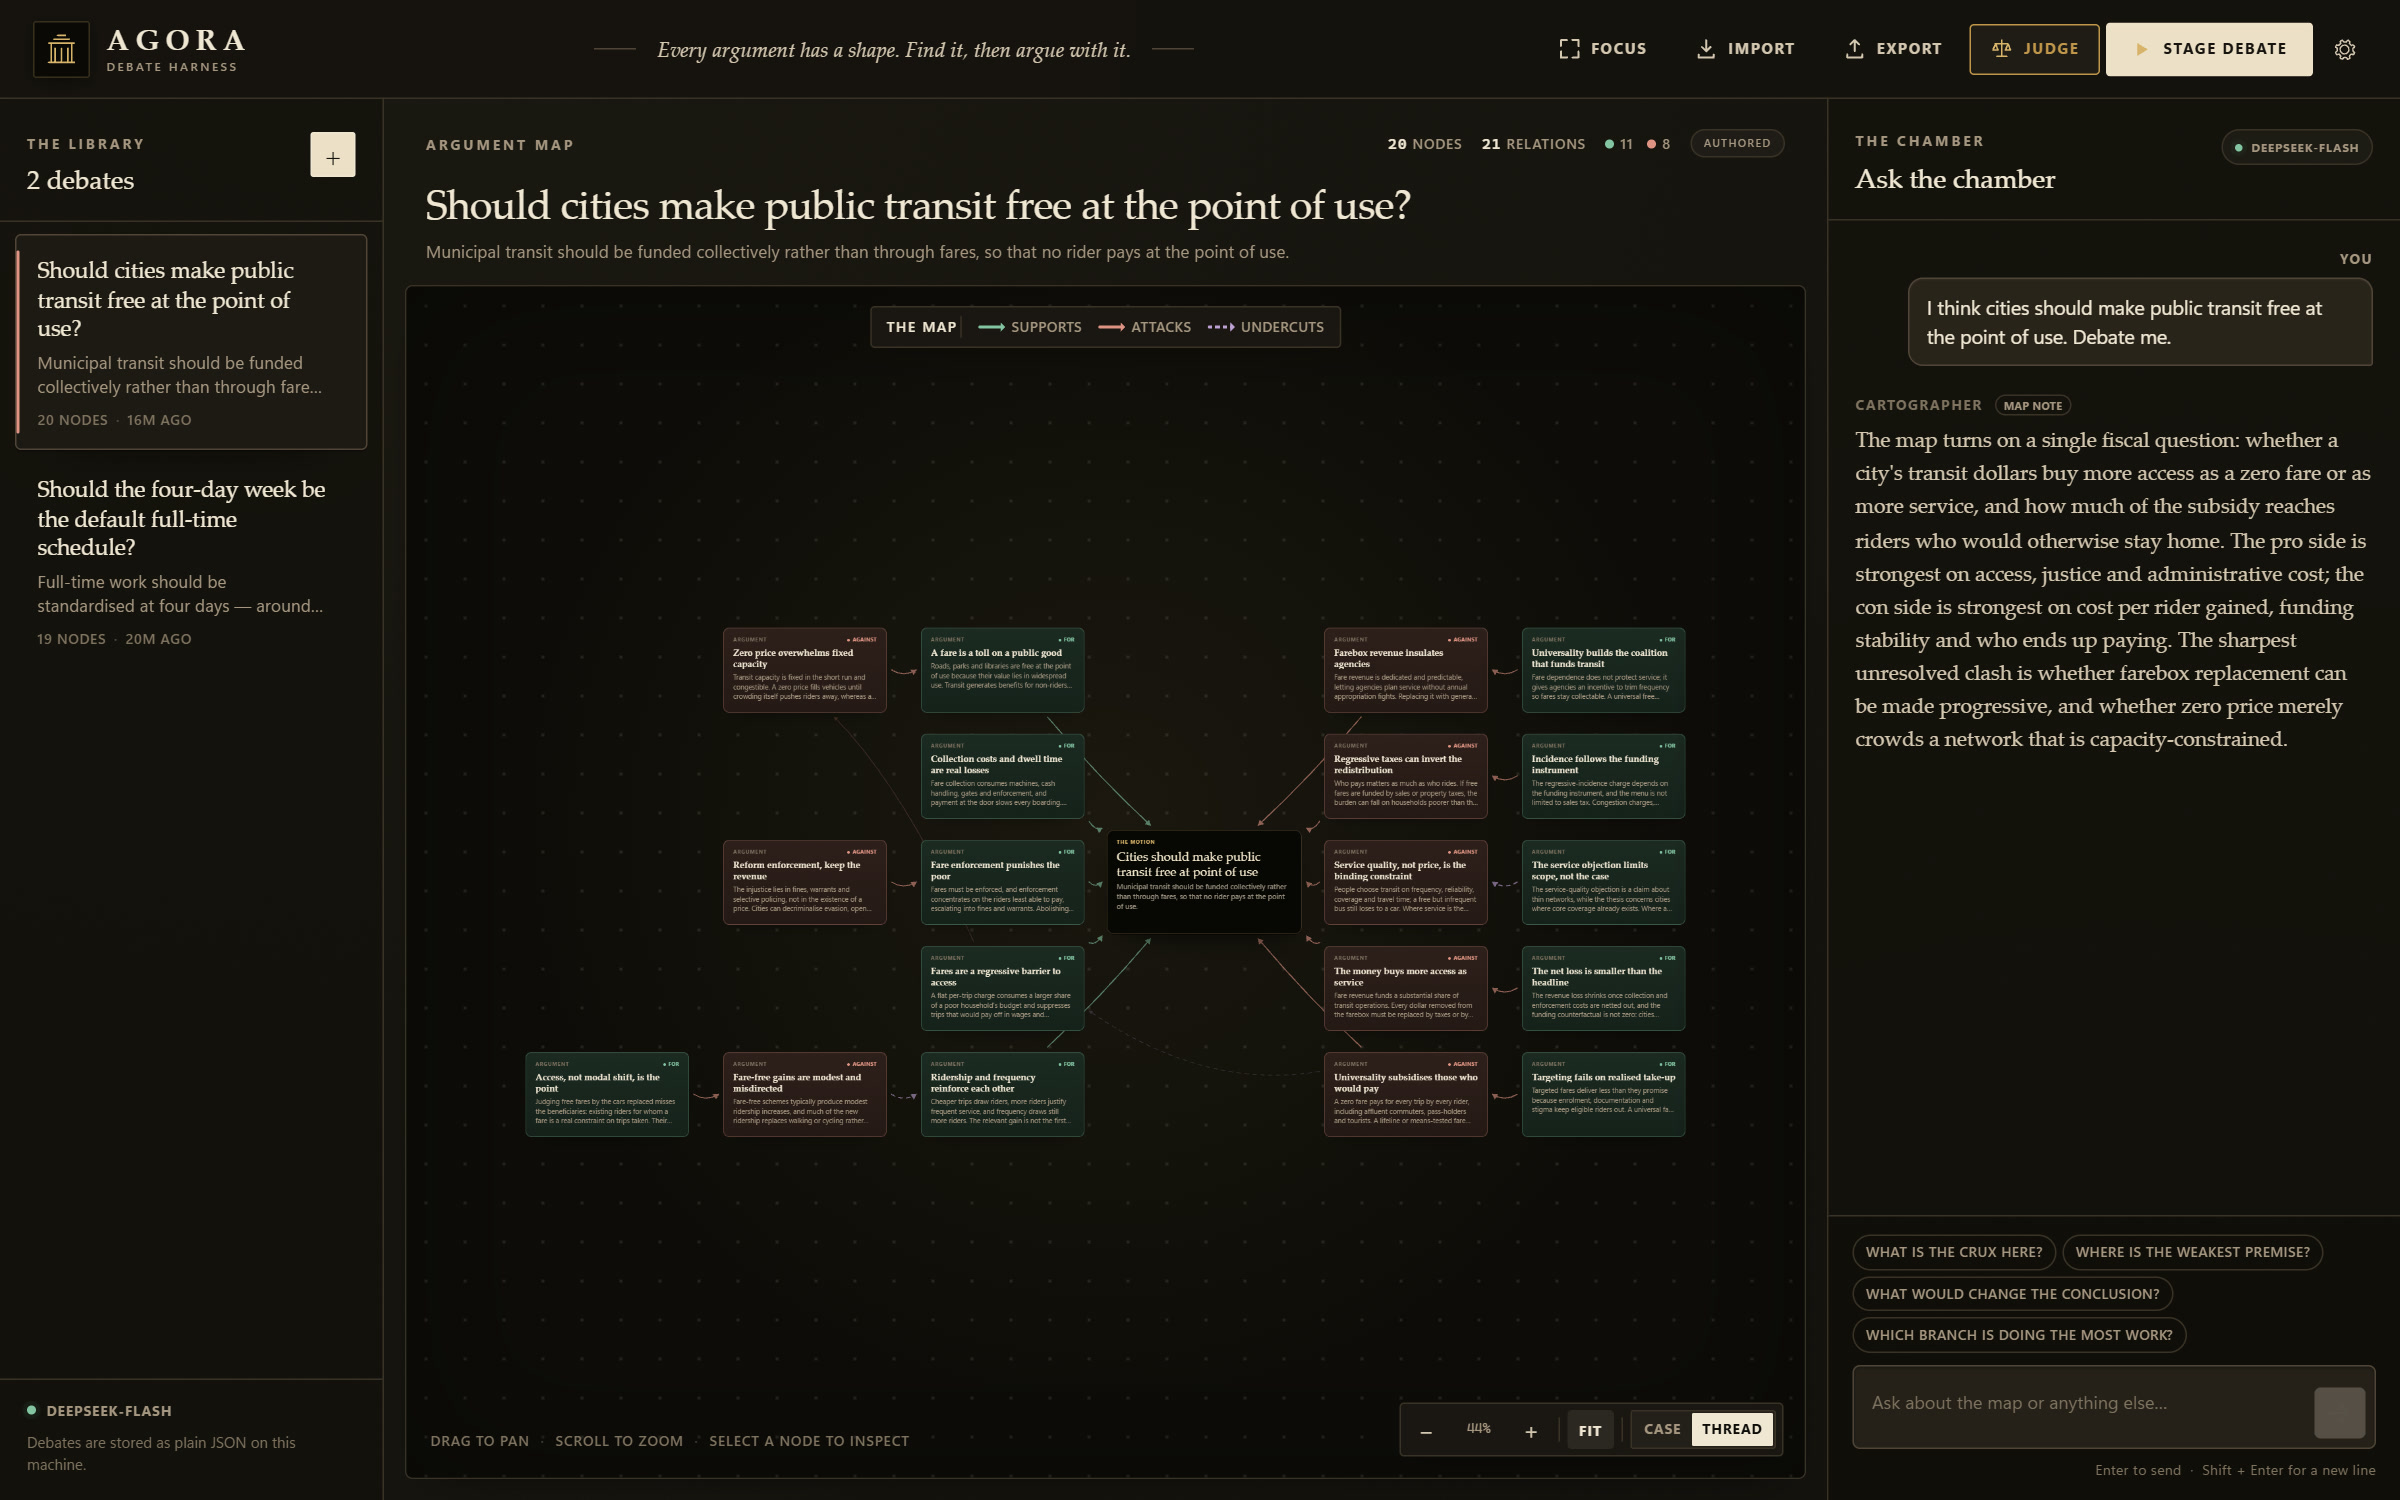
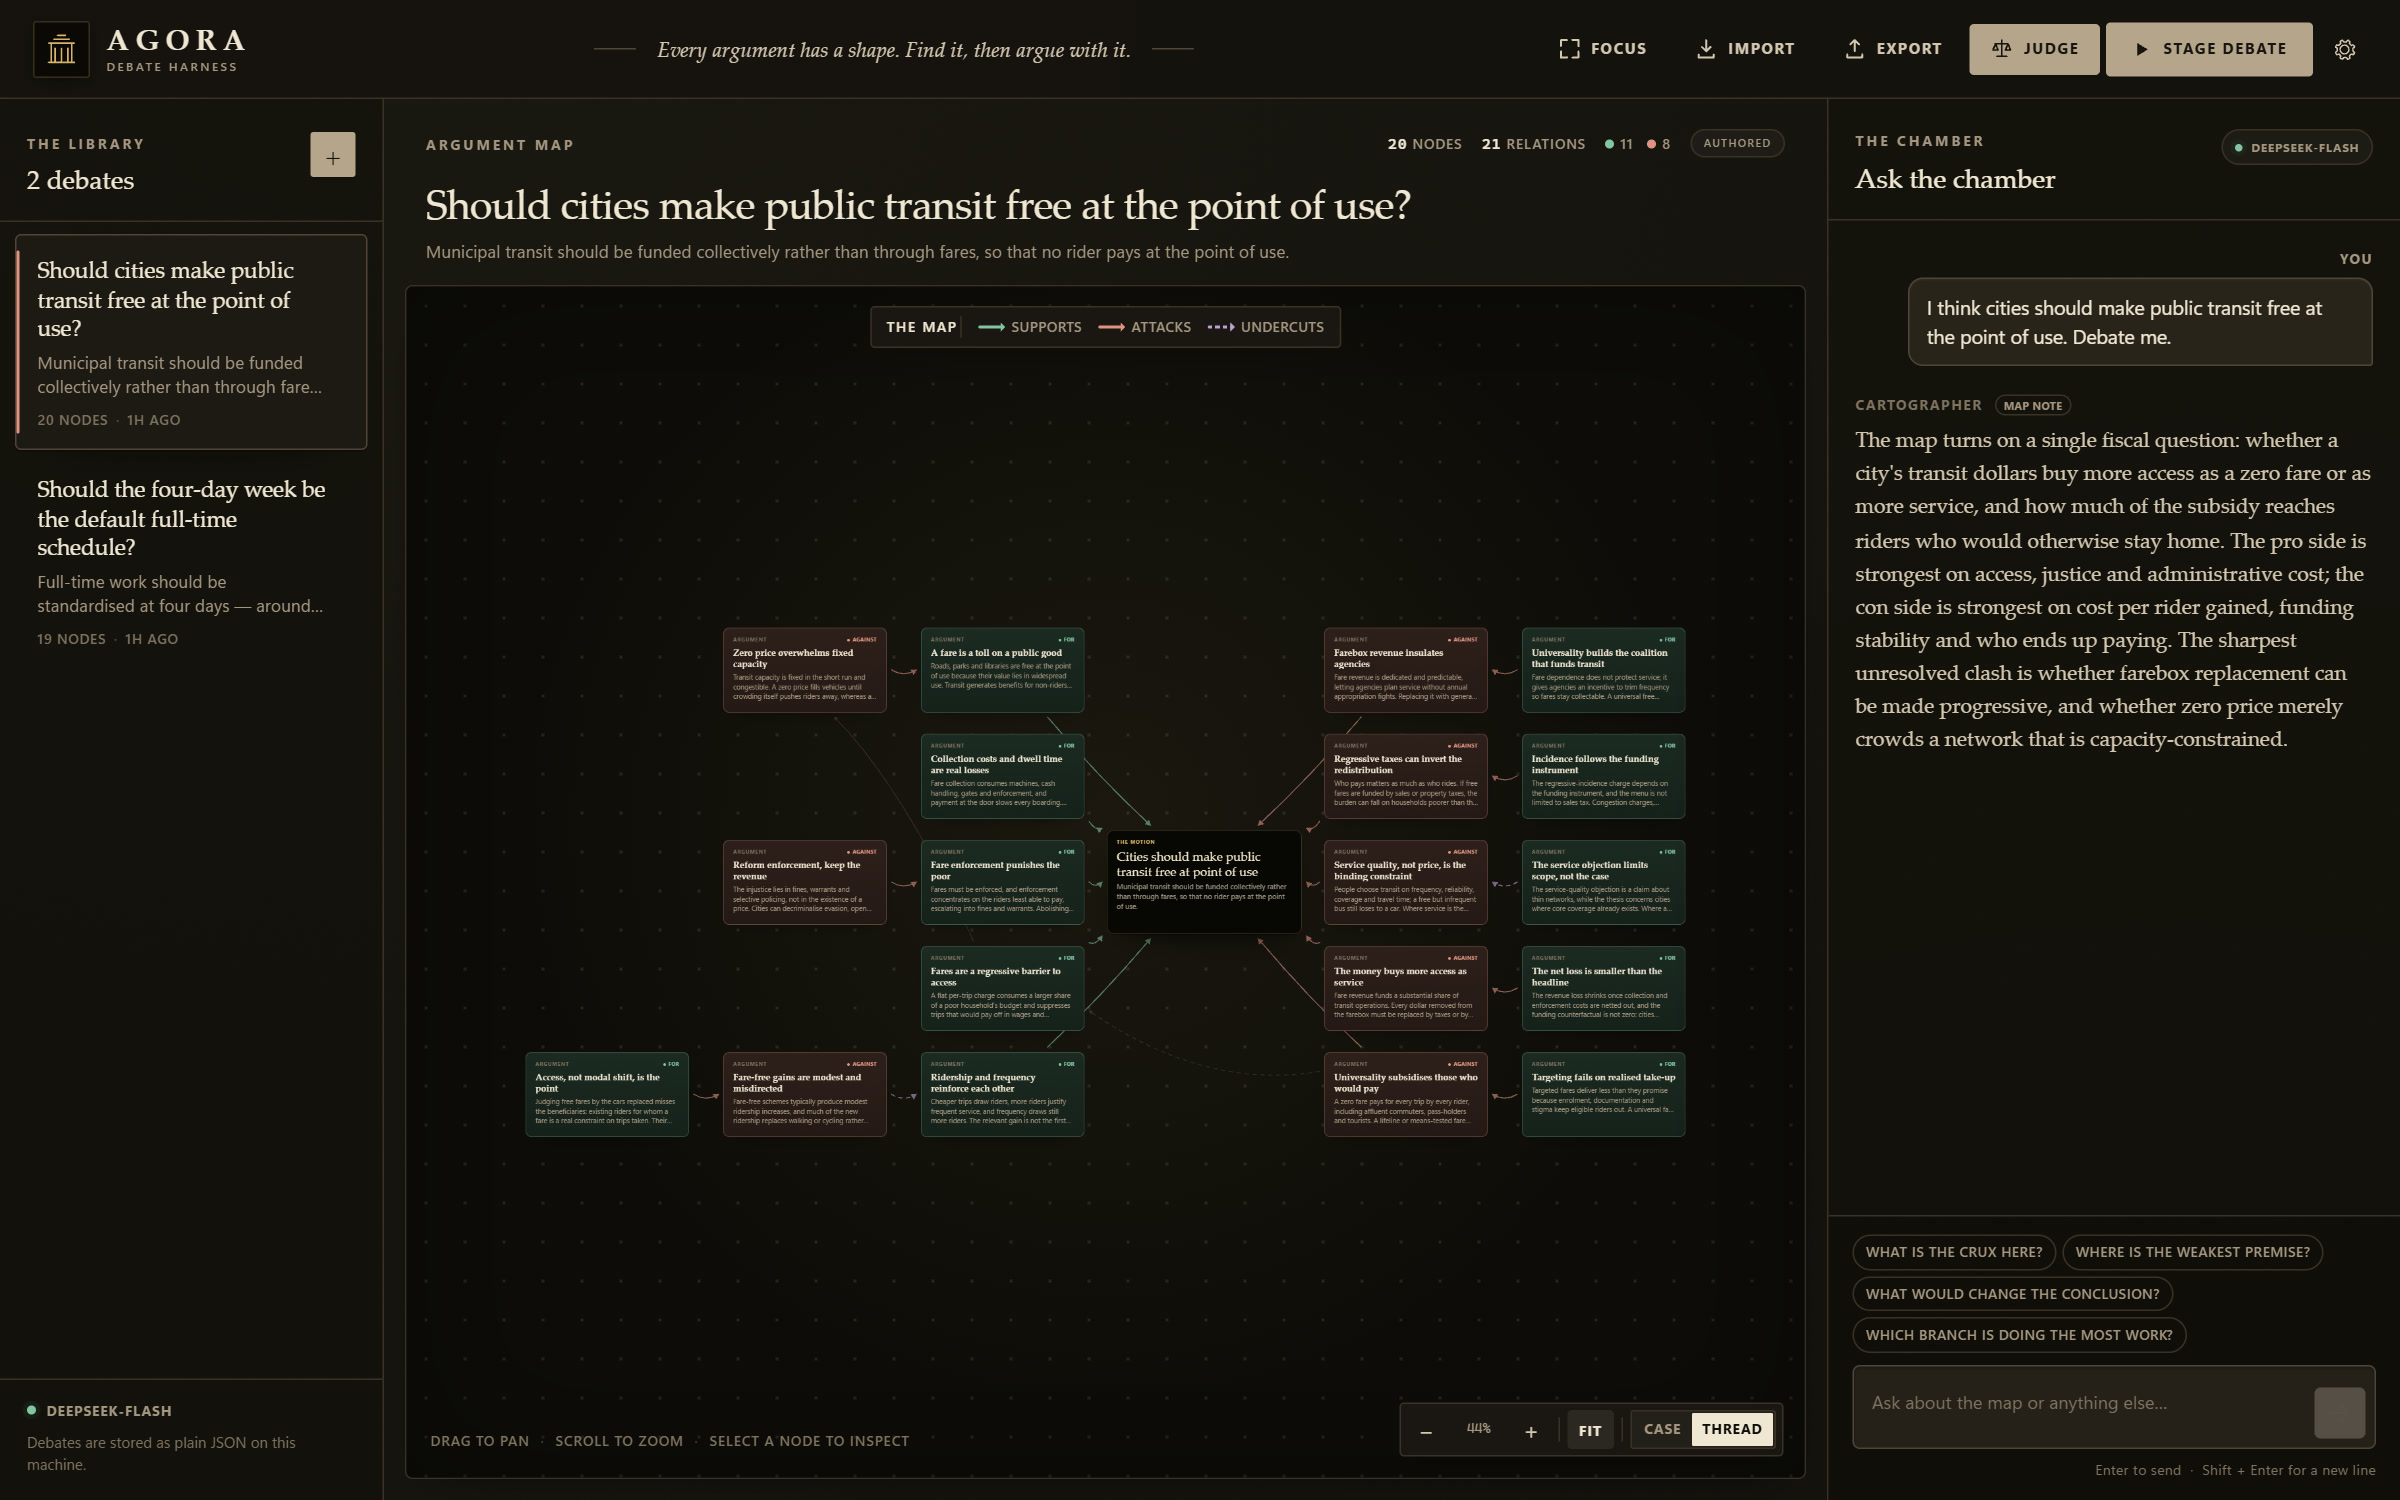
style: harmonize night action controls

Changed region(s): [[0.8125, 0.0, 0.9688, 0.0613], [0.125, 0.092, 0.1562, 0.1227]]

diff --git a/src/ui/dark.css b/src/ui/dark.css
@@ -248,3 +248,39 @@ html[data-theme="dark"] .record-row:hover { background: rgba(255, 240, 215, 0.05
 html[data-theme="dark"] .record-row.is-current { background: var(--gold-soft); }
 
 html[data-theme="dark"] .toast { background: #242019; border-color: var(--line-strong); color: var(--ink); }
+
+/* Night action controls: one muted parchment treatment for primary actions. */
+html[data-theme="dark"]:not([data-palette]) {
+  --night-action: #b6a58b;
+  --night-action-hover: #c6b59b;
+  --night-action-ink: #17130f;
+}
+html[data-theme="dark"]:not([data-palette]) .btn--stage,
+html[data-theme="dark"]:not([data-palette]) .btn--judge,
+html[data-theme="dark"]:not([data-palette]) .library-new,
+html[data-theme="dark"]:not([data-palette]) .stage-play-btn {
+  background: var(--night-action);
+  border-color: var(--night-action);
+  color: var(--night-action-ink);
+  box-shadow: 0 1px 0 rgba(0, 0, 0, 0.2);
+}
+html[data-theme="dark"]:not([data-palette]) .btn--stage svg,
+html[data-theme="dark"]:not([data-palette]) .btn--judge svg {
+  color: currentColor;
+}
+html[data-theme="dark"]:not([data-palette]) .btn--stage:hover,
+html[data-theme="dark"]:not([data-palette]) .btn--judge:hover:not(:disabled),
+html[data-theme="dark"]:not([data-palette]) .library-new:hover,
+html[data-theme="dark"]:not([data-palette]) .stage-play-btn:hover {
+  background: var(--night-action-hover);
+  border-color: var(--night-action-hover);
+  color: var(--night-action-ink);
+}
+html[data-theme="dark"]:not([data-palette]) .btn--judge.is-active {
+  background: var(--gold-soft);
+  border-color: var(--gold);
+  color: var(--gold);
+}
+html[data-theme="dark"]:not([data-palette]) .btn--judge.is-active svg {
+  color: var(--gold);
+}
